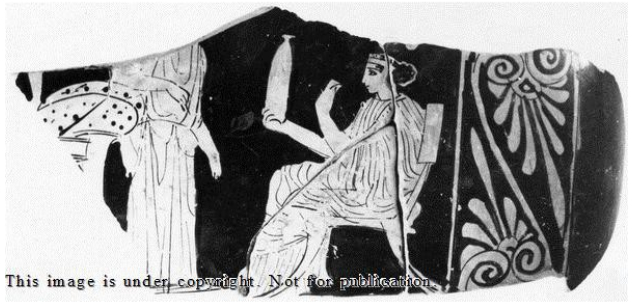
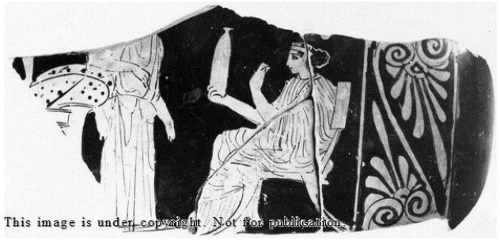
Updated bibliography and re-sized some images

diff --git a/DisplayedOnTheBody/LatexHeader.tex b/DisplayedOnTheBody/LatexHeader.tex
@@ -1,4 +1,4 @@
 \documentclass[12pt]{article}
 \usepackage[margin=1in]{geometry}
-\linespread{1.25}
+\linespread{1}
 
